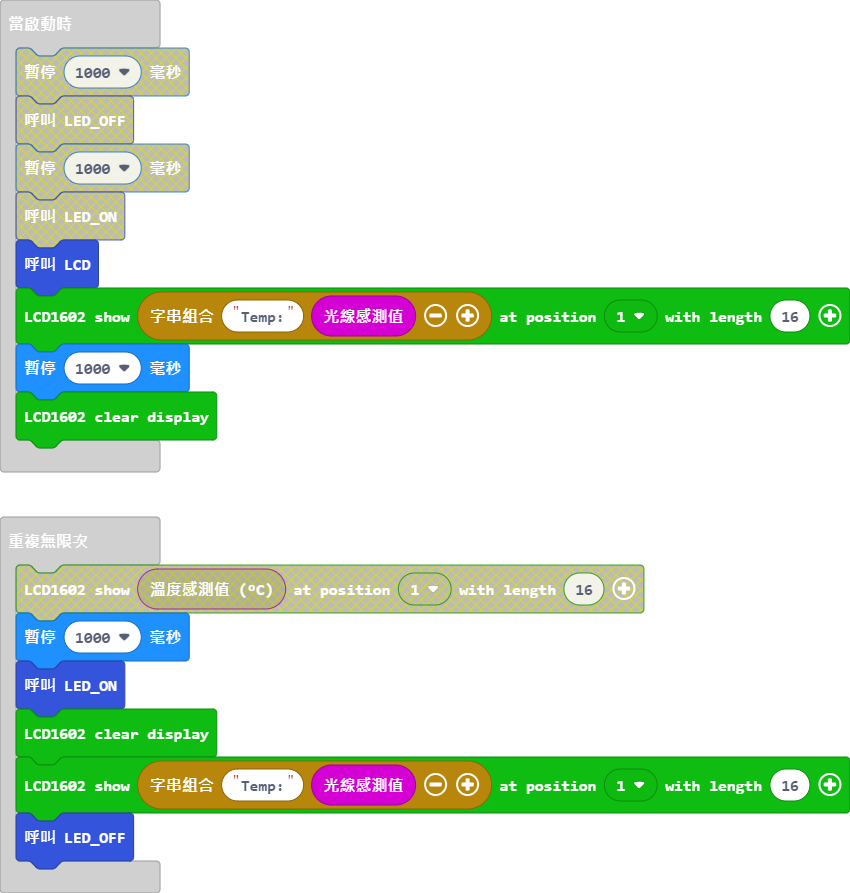
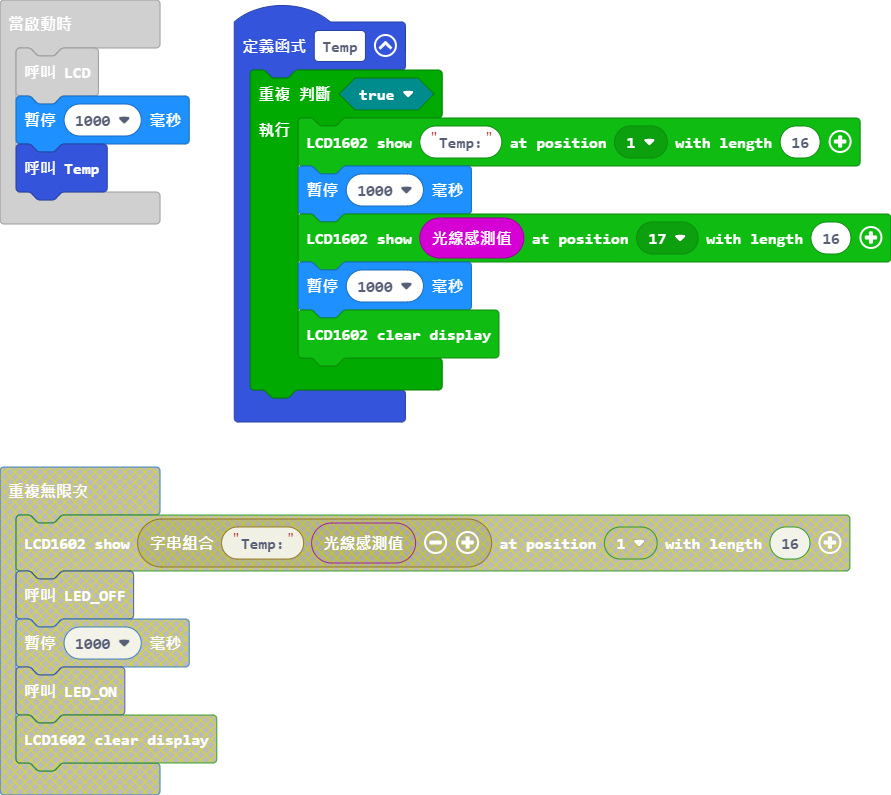
更新 main.blocks, main.ts

diff --git a/main.ts b/main.ts
@@ -1,3 +1,12 @@
+function Temp () {
+    while (true) {
+        makerbit.showStringOnLcd1602("Temp:", makerbit.position1602(LcdPosition1602.Pos1), 16)
+        basic.pause(1000)
+        makerbit.showStringOnLcd1602("" + (input.lightLevel()), makerbit.position1602(LcdPosition1602.Pos17), 16)
+        basic.pause(1000)
+        makerbit.clearLcd1602()
+    }
+}
 // # red = P1
 // # yellow = P2
 // # green = P8
@@ -77,13 +86,5 @@ function LED_ON () {
     pins.digitalWritePin(DigitalPin.P16, 1)
 }
 LCD()
-makerbit.showStringOnLcd1602("Temp:" + input.lightLevel(), makerbit.position1602(LcdPosition1602.Pos1), 16)
 basic.pause(1000)
-makerbit.clearLcd1602()
-basic.forever(function () {
-    makerbit.showStringOnLcd1602("Temp:" + input.lightLevel(), makerbit.position1602(LcdPosition1602.Pos1), 16)
-    LED_OFF()
-    basic.pause(1000)
-    LED_ON()
-    makerbit.clearLcd1602()
-})
+Temp()
